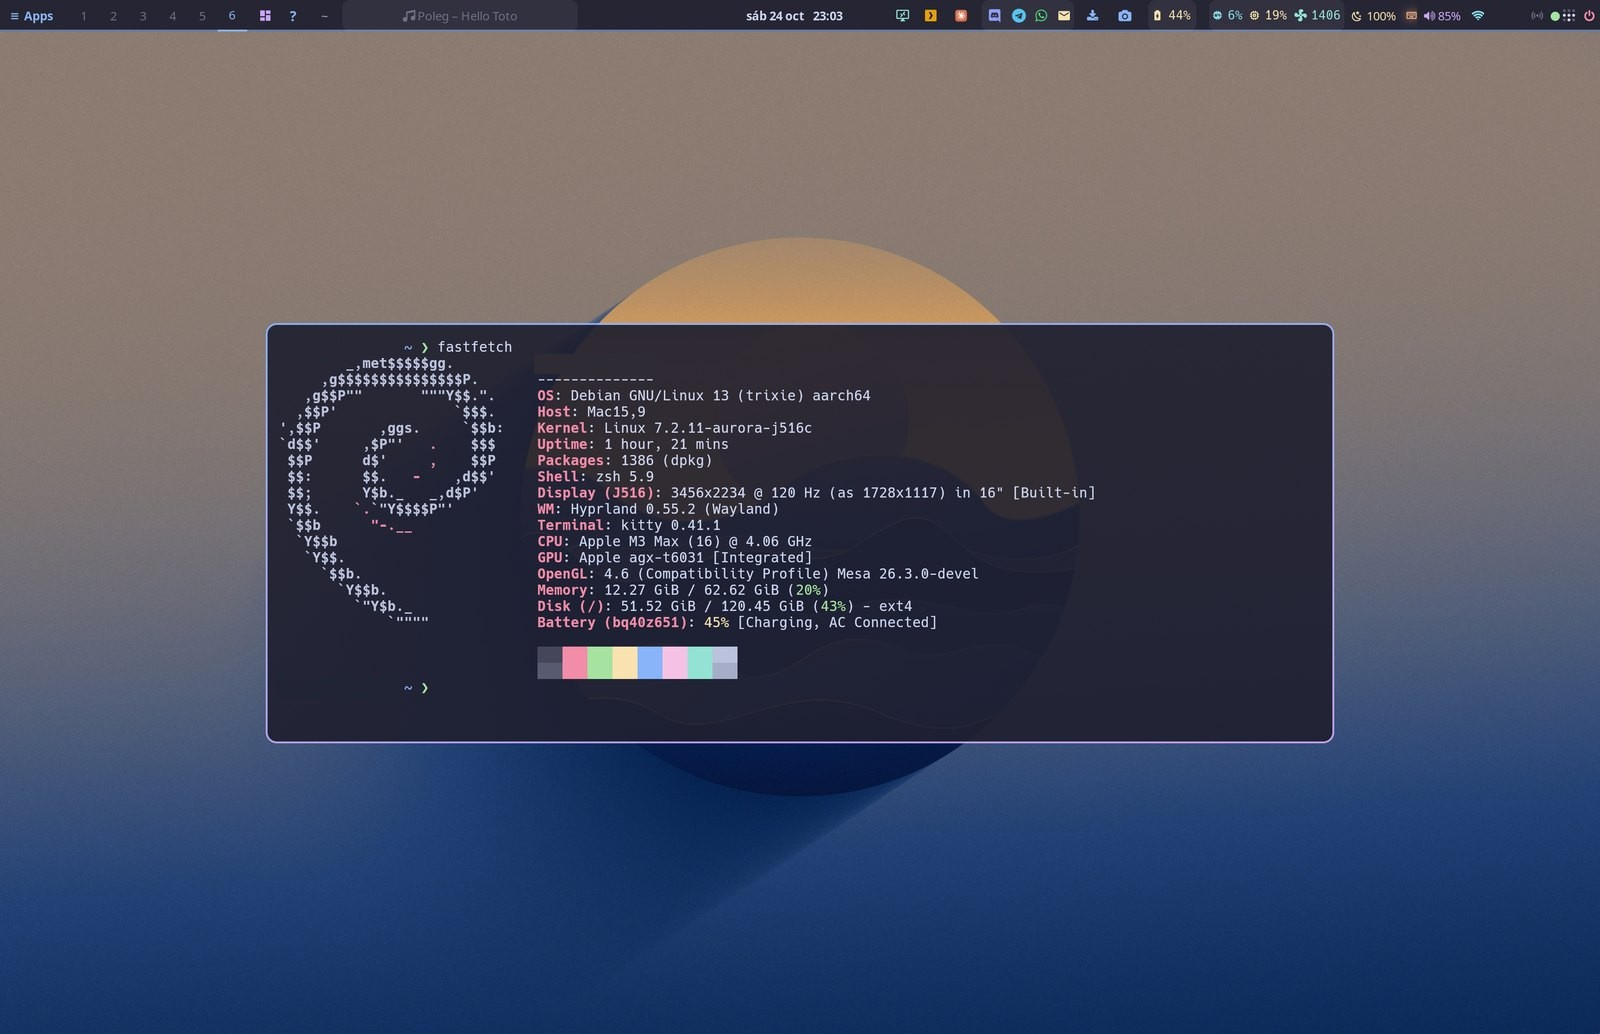
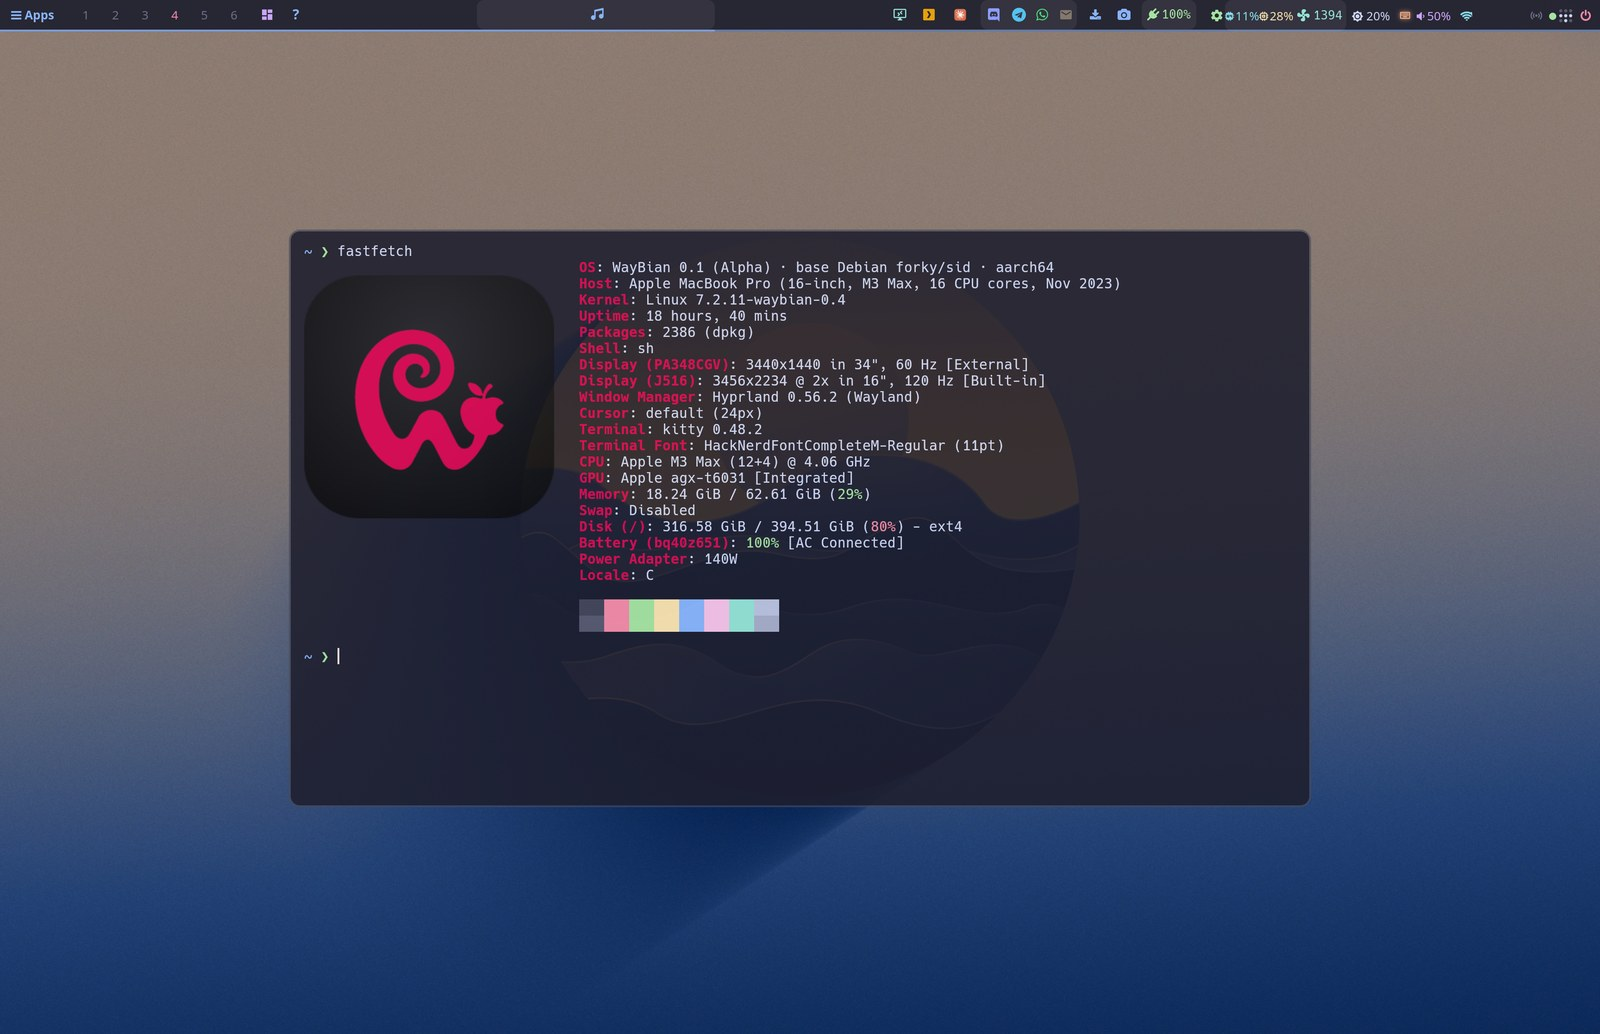
New desktop screenshot; file dialogs shown with still images of WayBian
- images/desktop.jpg retaken on Debian 14 (kernel 0.4, Hyprland 0.56.2,
  the WayBian logo in fastfetch), without user, host or network names.
- The Quick Look GIFs give way to still images: the dialog's grid and
  Quick Look (English and Spanish), plus a portrait example in docs;
  the sample files are screenshots of WayBian itself.
- Portal submodule on b369398.

Claude-Session: https://claude.ai/code/session_013Fj1pH1E6FTTQuV8fXeAkd

diff --git a/docs/forks.md b/docs/forks.md
@@ -84,7 +84,7 @@ No commits of ours: a mirror.
 
 ### xdg-desktop-portal-gtk4: Quick Look in the GTK4 file dialogs
 
-Fork [samucarre/xdg-desktop-portal-gtk4](https://github.com/samucarre/xdg-desktop-portal-gtk4/tree/waybian), branch `waybian` (its default branch), pinned at `65bca80` as `forks/xdg-desktop-portal-gtk4`. Base: mahkoh/xdg-desktop-portal-gtk4 master (`2372e15`).
+Fork [samucarre/xdg-desktop-portal-gtk4](https://github.com/samucarre/xdg-desktop-portal-gtk4/tree/waybian), branch `waybian` (its default branch), pinned at `b369398` as `forks/xdg-desktop-portal-gtk4`. Base: mahkoh/xdg-desktop-portal-gtk4 master (`2372e15`).
 
 | # | Date | Commit | Patch |
 |---|---|---|---|
@@ -94,4 +94,4 @@ Fork [samucarre/xdg-desktop-portal-gtk4](https://github.com/samucarre/xdg-deskto
 | 4 | 2026-10-29 | [FileChooser: Quick Look window of a fixed size](https://github.com/samucarre/xdg-desktop-portal-gtk4/commit/5c894800139e6c427e7b0ac03267e9d83d5edf3d) | [0004-FileChooser-Quick-Look-window-of-a-fixed-size.patch](../patches/xdg-desktop-portal-gtk4/0004-FileChooser-Quick-Look-window-of-a-fixed-size.patch) |
 | 5 | 2026-10-29 | [FileChooser: Quick Look fixes after a review](https://github.com/samucarre/xdg-desktop-portal-gtk4/commit/68d7a420a29e912884f14a86f502e2efec87cb43) | [0005-FileChooser-Quick-Look-fixes-after-a-review.patch](../patches/xdg-desktop-portal-gtk4/0005-FileChooser-Quick-Look-fixes-after-a-review.patch) |
 
-Commit 3 removes the side panel that commit 1 added; commit 5 fixes what a review found (a crash with an empty file list, a leak when the dialog closed with the preview open, the list's cursor left behind by the arrows, the selection lost with several files, huge images). The last two commits of the branch, [763190a](https://github.com/samucarre/xdg-desktop-portal-gtk4/commit/763190a60d33ecac13c61e9753268af75a7d809e) and [65bca80](https://github.com/samucarre/xdg-desktop-portal-gtk4/commit/65bca805e948fba95f81ab781b0945dd58ab329a), only touch the README (a section with screenshots); they are not kept as patches because they carry images.
+Commit 3 removes the side panel that commit 1 added; commit 5 fixes what a review found (a crash with an empty file list, a leak when the dialog closed with the preview open, the list's cursor left behind by the arrows, the selection lost with several files, huge images). The last three commits of the branch ([763190a](https://github.com/samucarre/xdg-desktop-portal-gtk4/commit/763190a60d33ecac13c61e9753268af75a7d809e), [65bca80](https://github.com/samucarre/xdg-desktop-portal-gtk4/commit/65bca805e948fba95f81ab781b0945dd58ab329a) and [b369398](https://github.com/samucarre/xdg-desktop-portal-gtk4/commit/b36939883ed9632c04bb619be0174cb1c1711eb8)) only touch the README (a section with screenshots); they are not kept as patches because they carry images.

diff --git a/docs/desktop.md b/docs/desktop.md
@@ -61,8 +61,13 @@ The GTK4 file chooser (the "Open" dialog of Chrome and of every app that goes th
 - **Preview.** GTK 4 dropped the chooser's preview widget. Our fork of the portal ([samucarre/xdg-desktop-portal-gtk4](https://github.com/samucarre/xdg-desktop-portal-gtk4/tree/waybian), branch `waybian`) adds Quick Look as in the Finder: with the focus in the file list, space opens the selected file in its own window of 70 % × 80 % of the screen (an image is fitted inside and never enlarged; anything else shows its type icon), with name, type, size and, for images, dimensions; the arrows move to the previous or next file (only through the selected ones when there are several, keeping the selection), and space or Esc closes it, leaving the dialog's cursor on the file that was on screen so that Enter opens that one. For PNG, GIF, WebP and JPEG the image size is read from the file header first: above 40 megapixels the picture is decoded scaled down, above 100 not at all; nothing over 64 MiB is decoded. A review then found and fixed three bugs: an empty folder could crash the portal, closing the dialog with the preview open leaked the image, and Enter opened the file the preview had started from.
 
 <p align="center">
-  <img src="../images/file-chooser-quick-look.gif" alt="Quick Look in a GTK4 open dialog" width="800"><br>
-  <sub>Space bar on a file, the arrows to move through the files, space to close (sample images).</sub>
+  <img src="../images/file-chooser-grid.jpg" alt="A GTK4 open dialog with square thumbnails" width="400">
+  <img src="../images/file-chooser-quick-look.jpg" alt="Quick Look in a GTK4 open dialog" width="400"><br>
+  <sub>The dialog's grid and Quick Look after pressing space (the files are screenshots of WayBian).</sub>
+</p>
+<p align="center">
+  <img src="../images/file-chooser-quick-look-portrait.jpg" alt="Quick Look with a portrait image" width="800"><br>
+  <sub>Three files further with the arrow keys: a portrait image fitted in the same window.</sub>
 </p>
 <p align="center">
   <img src="../images/thumbnails-before-after.jpg" alt="The same folder: plain GTK 4, ordinary thumbnails, square thumbnails" width="800"><br>

diff --git a/README.es.md b/README.es.md
@@ -94,7 +94,7 @@ Más, con el porqué de cada decisión: [docs/desktop.md](docs/desktop.md). El i
 
 <p align="center">
   <img src="images/desktop.jpg" alt="Escritorio de WayBian" width="800"><br>
-  <sub>El escritorio el 24-oct-2026, aún en Debian 13, con el panel de información del sistema.</sub>
+  <sub>El escritorio, con el panel de información del sistema.</sub>
 </p>
 <p align="center">
   <img src="images/waybar-panels.jpg" alt="Waybar y sus paneles" width="800"><br>
@@ -106,8 +106,9 @@ Más, con el porqué de cada decisión: [docs/desktop.md](docs/desktop.md). El i
   <sub>AirDrop desde un iPhone · la pantalla de inicio de sesión.</sub>
 </p>
 <p align="center">
-  <img src="images/selector-vista-rapida.gif" alt="Vista rápida en un diálogo de abrir GTK4" width="800"><br>
-  <sub>Vista rápida en los diálogos de abrir: Espacio sobre un fichero, las flechas para pasar de uno a otro, Espacio para cerrar.</sub>
+  <img src="images/selector-cuadricula.jpg" alt="Un diálogo de abrir GTK4 con miniaturas cuadradas" width="400">
+  <img src="images/selector-vista-rapida.jpg" alt="Vista rápida en un diálogo de abrir GTK4" width="400"><br>
+  <sub>El diálogo de abrir con sus miniaturas, y la vista rápida al pulsar Espacio (los ficheros son capturas de WayBian).</sub>
 </p>
 
 ## Software

diff --git a/README.md b/README.md
@@ -94,7 +94,7 @@ More, with the reasons behind each choice: [docs/desktop.md](docs/desktop.md). T
 
 <p align="center">
   <img src="images/desktop.jpg" alt="WayBian desktop" width="800"><br>
-  <sub>The desktop on 24 Oct 2026, still on Debian 13, with the system information panel.</sub>
+  <sub>The desktop, with the system information panel.</sub>
 </p>
 <p align="center">
   <img src="images/waybar-panels.jpg" alt="Waybar and its panels" width="800"><br>
@@ -106,8 +106,9 @@ More, with the reasons behind each choice: [docs/desktop.md](docs/desktop.md). T
   <sub>AirDrop from an iPhone · the login screen.</sub>
 </p>
 <p align="center">
-  <img src="images/file-chooser-quick-look.gif" alt="Quick Look in a GTK4 open dialog" width="800"><br>
-  <sub>Quick Look in the open dialogs: space bar on a file, the arrows to move through the files, space to close.</sub>
+  <img src="images/file-chooser-grid.jpg" alt="A GTK4 open dialog with square thumbnails" width="400">
+  <img src="images/file-chooser-quick-look.jpg" alt="Quick Look in a GTK4 open dialog" width="400"><br>
+  <sub>The open dialog with its thumbnails, and Quick Look after pressing space (the files are screenshots of WayBian).</sub>
 </p>
 
 ## Software

diff --git a/patches/README.md b/patches/README.md
@@ -9,6 +9,6 @@ Every code commit of ours on each fork, as plain patch files (what `git format-p
 | [postcard](https://github.com/samucarre/postcard/tree/debian13-m3) | 9 | gxanshu/postcard 1.15.0 |
 | [omdrop-awdl](https://github.com/samucarre/omdrop-awdl/tree/discoverable-rapido) | 1 | netmojo-systems/omdrop-awdl main |
 | [libva-v4l2_request](https://github.com/samucarre/libva-v4l2_request/tree/avd-fixes) | 0 | omacom/libva-v4l2_request (mirror, no changes) |
-| [xdg-desktop-portal-gtk4](https://github.com/samucarre/xdg-desktop-portal-gtk4/tree/waybian) | 5 | mahkoh/xdg-desktop-portal-gtk4 master (`2372e15`); the branch's two README commits (screenshots) are left out |
+| [xdg-desktop-portal-gtk4](https://github.com/samucarre/xdg-desktop-portal-gtk4/tree/waybian) | 5 | mahkoh/xdg-desktop-portal-gtk4 master (`2372e15`); the branch's three README commits (screenshots) are left out |
 
 To rebuild a fork from scratch: clone the upstream, check out the base, then `git am patches/<program>/*.patch`. Details per program in [docs/forks.md](../docs/forks.md).
